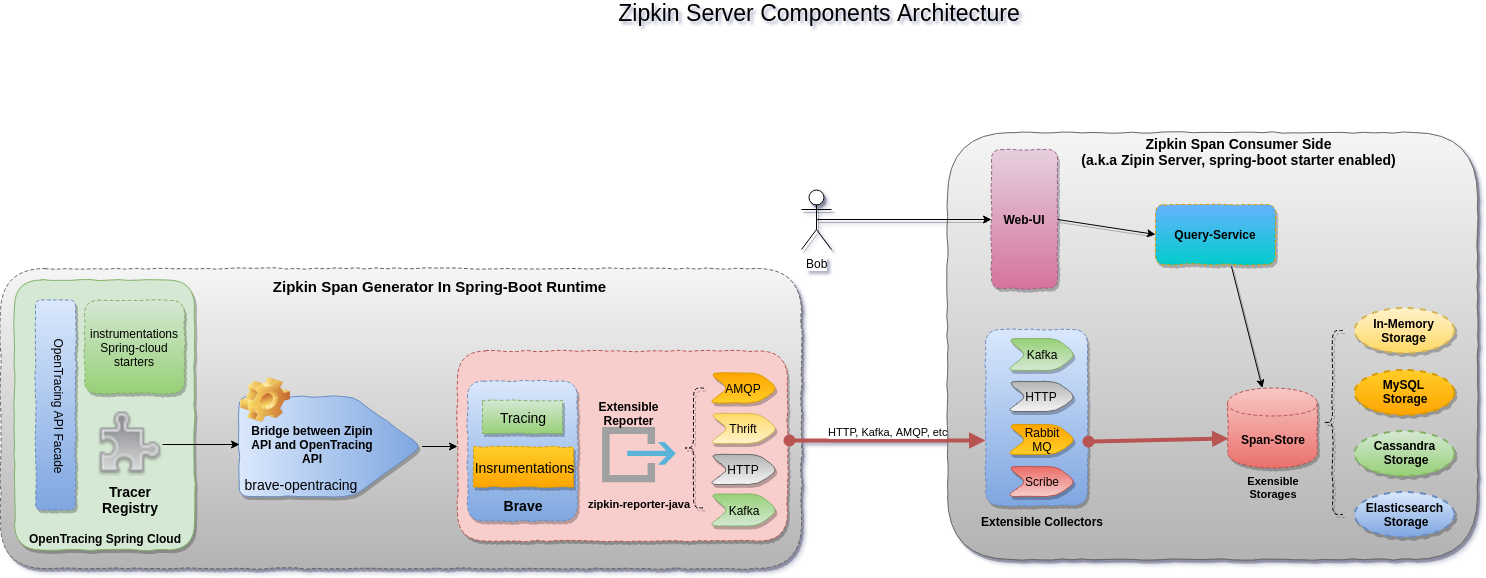
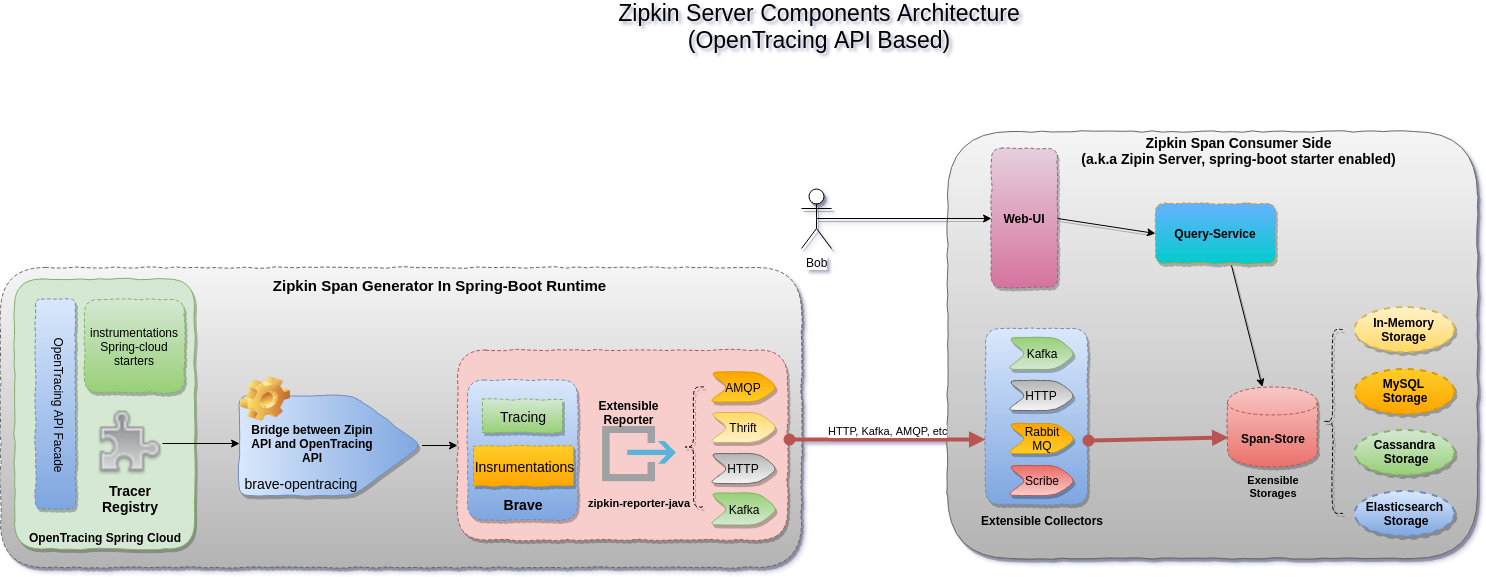
fix bug mentioned by issue-1, as well adding more doc details

diff --git a/README.md b/README.md
@@ -1,45 +1,10 @@
-# Introduction
+## Introduction
 
 The purpose of this repository aims to provide a hands-on architecture PoC(proof-of-concept) sample that are easy to understand and demonstrate how to **build** and **run** a `microservices architecture(MSA)` application based on the ecosystem composed of the excellent technologies offering by `Spring-Cloud`, `Hashicorp`, `Elastic`,  `Netflix` and etc. 
-In particular, the PoC pursue to cover below functionalities:
- 
- - Dev
-    - `APIDoc`(Swagger based)
-    - `TDD`
-    - `Code Branch Management`
-    
- - MSA Interconnectivity(Application/Infrastructure Runtime)
-    - `API-Gateway(Edger Service)`
-    - `Service Discovery`
-    - `Intra-Communication Load Balance`
-    - `Circuit Breakers`
-    - `Intelligent Routing`
-    - `Distributed Tracing Instrumentation`
-     
-  - MSA Orchestration (Infrastructure Runtime)
-    - `Service Orchestration`(support hybrid deployables)
-    - `Aggregated Logging`(which enabled via attaching a sidecar log-shipper task)
-     
-  - Ops
-    - `Service Admin`
-    - `Service Allocation Status` (hashi-ui)
-    - `Distributed Tracing Reporter`(zipkin-ui)
-    - `Centralized Logging Reporter` (Kibana)
-    - `Java Memory Analysis`
-    - `Java Core Dump Analysis`
-    - `perf_event + flamegraph` based Java profiling (linux only)
-    - `wrk`
- 
- > Notable:
- >
- >    CI/CD refer to the combined practices of `continuous integration` and `continuous delivery`
- >  
- >    In order to keep the PoC sample as simple as possible, I didn't involve CI/CD features here. 
 
 ## Backround
 
-The rapidly growing of the cloud confirms that more and more applications either being built upon cloud-native technology or start to do the cloud transformation, as a result, the modern applications are either built upon microservices architecture or in the period of tranditional architectures (e.g: monothilic or SOA) to micorservices.
-
+The rapidly growing of the cloud confirms that more and more applications either being built upon cloud-native technology or start to do the cloud transformation, as a result, the modern applications are either built upon microservices architecture or in the period of tranditional architectures (e.g: Monolithic or SOA) to micorservices.
 
 ![Modern Application Architecture](./docs/architecture-evolution.png)
 
@@ -55,11 +20,48 @@ Bird's-eye view of cloud-native platform
 
 ![Ladnscape Overview](./docs/architecture-microservices-landscape.png)
 
-## PoC Scenario Overview
+## PoC Scenario 
+
+### Overview
 
 ![PoC Scenario Overview](./docs/architecture-spring-cloud-poc.png)
 
-## Spring-Boot Modules
+The PoC sample pursue to cover below functionalities:
+ 
+ - Dev
+    - `APIDoc`(Swagger based)
+    - `TDD`
+    - `Code Branch Management`
+    
+ - Service Interconnectivity(Application/Infrastructure Runtime)
+    - `API-Gateway`(Edger service)
+    - `Service Discovery`
+    - `Intra-Communication Load Balance` (Private service)
+    - `Circuit Breakers`
+    - `Intelligent Routing`
+    - `Distributed Tracing Instrumentation` (OpenTracing API based)
+     
+  - Service Orchestration (Infrastructure Runtime)
+    - `Service Orchestration`(support hybrid deployables)
+    - `Aggregated Logging`(which enabled via attaching a sidecar log-shipper task)
+     
+  - Ops
+    - `Service Admin`
+    - `Service Allocation Status` (Hashi-ui)
+    - `Distributed Tracing Reporter`(Zipkin-ui)
+    - `Centralized Logging Reporter` (Kibana)
+    - `Java Memory Analysis`
+    - `Java Core Dump Analysis`
+    - `perf_event + flamegraph` profiling (Linux only)
+    - `wrk`
+ 
+ > Notable:
+ >
+ >    CI/CD refer to the combined practices of `continuous integration` and `continuous delivery`
+ >  
+ >    In order to keep the PoC sample as simple as possible, I didn't involve CI/CD features here. 
+
+### Spring-Boot Modules
 
 ```
 
@@ -96,7 +98,7 @@ Bird's-eye view of cloud-native platform
 
 ```
 
-## Prepare to run
+## Run the sample in standalone mode(w/o ops support)
 
 ### Start Consul (listening on port 8500)
 
@@ -193,17 +195,22 @@ or lanuch the Zipkin server via an embedded spring boot module
 
 ```
 
-
-## Run the sample in standalone approach(w/o ops support)
-
-### Command Line
+### Run the sample via Command Line
 
 ```shell
   curl -X POST "http://localhost:2809/calculator-ui/api/v1/compute" -H "accept: application/json" -H "Content-Type: application/json" -d "{ \"expression\": \"1+1+2+3+4+5+6-1-2-3-4-5-6+9+8-4-5\"}"
 
 ```
 
-### High load Run (assuming `wrk` is ready in your workstation)
+### Run the sample with High load (assuming `wrk` is ready in your workstation)
+
+calculator.lua:
+
+```lua
+wrk.method = "POST"
+wrk.headers["Content-Type"] = "application/json"
+wrk.body   = "{ \"expression\": \"1+1+2+3+4+5+6-1-2-3-4-5-6+9+8-4-5\"}"
+```
 
 ```shell
    wrk -t 200 -c 200 -s ./scripts/calculator.lua -d 60s --latency http://localhost:2809/calculator-ui/api/v1/compute
@@ -395,11 +402,12 @@ If we want a visual UI and execute the API with test request, just add a depende
    ```
       On Ubuntu
       
-        sudo apt-get install -y linux-tools-common
+      sudo apt-get install -y linux-tools-common
+      
    ```
 
   >
-  > I am using ubuntu with kernel below:
+  > The sample was verified on ubuntu with kernel below:
   >
   > _Linux lizh-laptop 4.4.0-72-generic #93~14.04.1-Ubuntu SMP Fri Mar 31 15:05:15 UTC 2017 x86_64 x86_64 x86_64 GNU/Linux_
   
@@ -466,7 +474,7 @@ If we want a visual UI and execute the API with test request, just add a depende
 
 ## Service Scheduler/Orchestration
 
-### Building a microservcies != Running a microservices
+**Building a microservcies != Running a microservices**
 
 ### Why not kubernetes
 
@@ -526,7 +534,7 @@ There are three major vendors there, maybe four if you include HashiCorp [which 
 
 cgroup + chroot
 
-### Run the e2e sample with ops support
+### Run sample in full-feature mode(with ops support)
 
 #### Folder structure
 
@@ -662,6 +670,7 @@ run the sample, you will see the message like below:
     {"@timestamp":"2018-09-05T06:34:20.283Z","@metadata":{"beat":"filebeat","type":"doc","version":"6.4.0","topic":"api-gateway-filebeat"},"input":{"type":"log"},"beat":{"version":"6.4.0","name":"hello-springcloud","hostname":"hello-springcloud"},"host":{"name":"hello-springcloud"},"source":"/data/nomad/data/alloc/c24d5f7a-c476-9aec-da51-6274a8e990e5/alloc/logs/api-gateway-task.stdout.0","offset":916841,"message":"[DEBUG]: [Enter]: [POST] -\u003e http://10.10.10.200:2809/calculator-ui/api/v1/compute","prospector":{"type":"log"}}
     {"@timestamp":"2018-09-05T06:34:20.283Z","@metadata":{"beat":"filebeat","type":"doc","version":"6.4.0","topic":"api-gateway-filebeat"},"message":"[DEBUG]: \u003e\u003e\u003e Content-Type: application/json","source":"/data/nomad/data/alloc/c24d5f7a-c476-9aec-da51-6274a8e990e5/alloc/logs/api-gateway-task.stdout.0","offset":916923,"prospector":{"type":"log"},"input":{"type":"log"},"beat":{"name":"hello-springcloud","hostname":"hello-springcloud","version":"6.4.0"},"host":{"name":"hello-springcloud"}}
     {"@timestamp":"2018-09-05T06:34:20.283Z","@metadata":{"beat":"filebeat","type":"doc","version":"6.4.0","topic":"api-gateway-filebeat"},"source":"/data/nomad/data/alloc/c24d5f7a-c476-9aec-da51-6274a8e990e5/alloc/logs/api-gateway-task.stdout.0","prospector":{"type":"log"},"input":{"type":"log"},"beat":{"name":"hello-springcloud","hostname":"hello-springcloud","version":"6.4.0"},"host":{"name":"hello-springcloud"},"offset":916967,"message":"[DEBUG]: [Exit]: [POST] [200] \u003c- http://10.10.10.200:2809/calculator-ui/api/v1/compute"}
+    
 ```
 
 ##### Run benchmark
